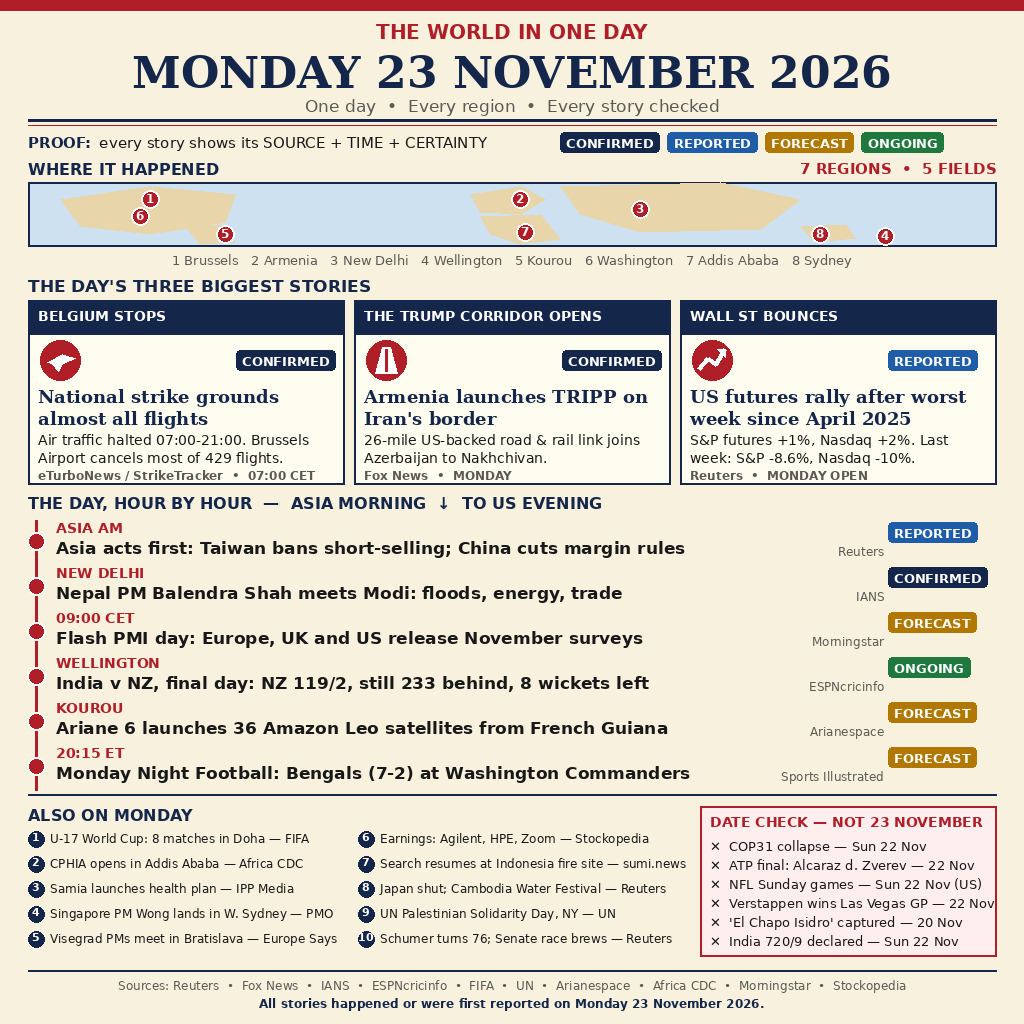
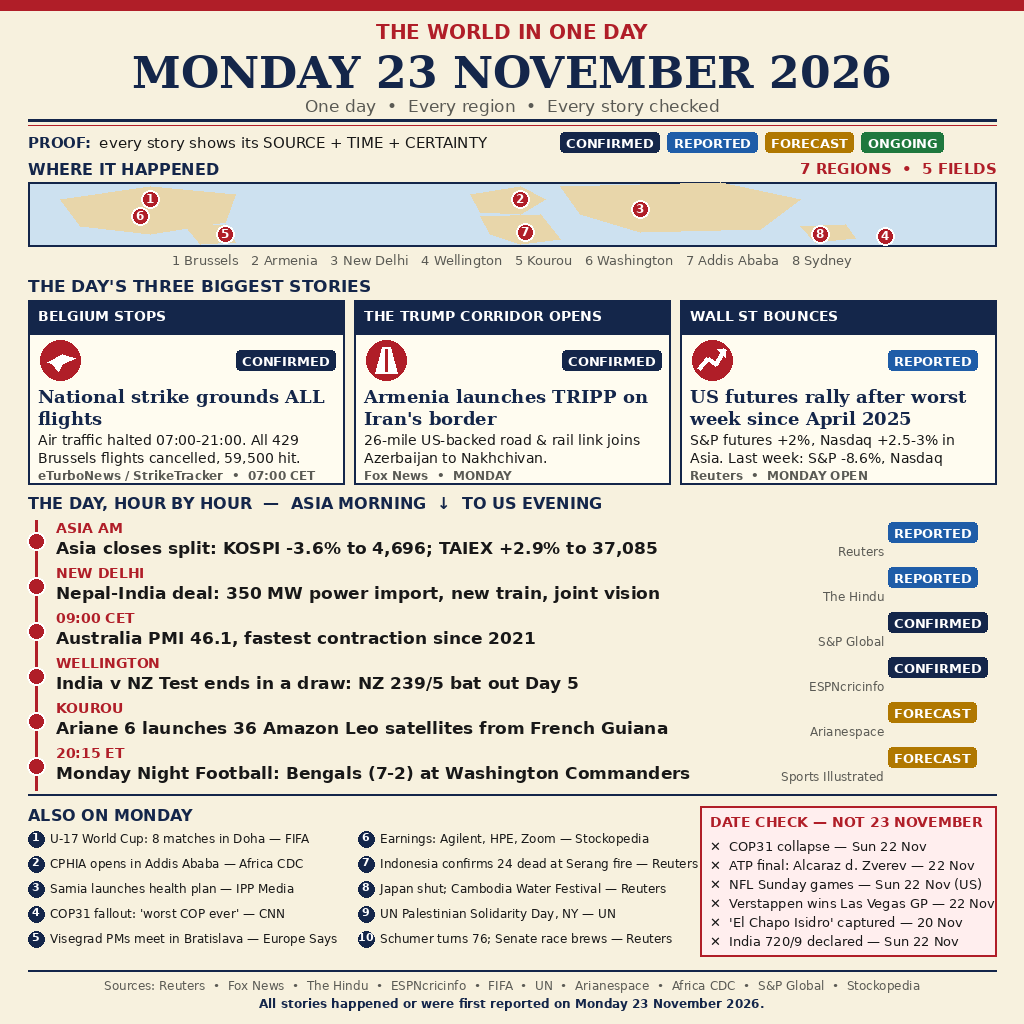
Refresh: round-2 results (Belgium all flights cancelled, IND-NZ draw, Asia closes, Australia PMI 46.1, Nepal-India deal, Serang 24 dead, COP31 reactions)

diff --git a/draw_entry.py b/draw_entry.py
@@ -3,7 +3,7 @@
 Own drawing code (PIL). 1024x1024 newspaper front page: timeline of Monday
 23 November 2026, Asia morning -> US evening, with a PROOF column
 (source + time + certainty tag) on every story. All stories from the
-verified round-1 story list only; trap-list items appear ONLY in the
+verified round-1 + round-2 story lists only; trap-list items appear ONLY in the
 DATE CHECK box as explicitly NOT 23 November.
 """
 from PIL import Image, ImageDraw, ImageFont
@@ -106,8 +106,8 @@ d.text((W // 2, 252), "1 Brussels   2 Armenia   3 New Delhi   4 Wellington   5 K
 d.text((M, 276), "THE DAY'S THREE BIGGEST STORIES", font=F(SANS_B, 17), fill=NAVY)
 heroes = [
     dict(x=M, icon="plane", kick="BELGIUM STOPS",
-         head="National strike grounds almost all flights",
-         body="Air traffic halted 07:00-21:00. Brussels Airport cancels most of 429 flights.",
+         head="National strike grounds ALL flights",
+         body="Air traffic halted 07:00-21:00. All 429 Brussels flights cancelled, 59,500 hit.",
          src="eTurboNews / StrikeTracker", time="07:00 CET", tag="CONFIRMED"),
     dict(x=M + 326, icon="road", kick="THE TRUMP CORRIDOR OPENS",
          head="Armenia launches TRIPP on Iran's border",
@@ -115,7 +115,7 @@ heroes = [
          src="Fox News", time="MONDAY", tag="CONFIRMED"),
     dict(x=M + 652, icon="chart", kick="WALL ST BOUNCES",
          head="US futures rally after worst week since April 2025",
-         body="S&P futures +1%, Nasdaq +2%. Last week: S&P -8.6%, Nasdaq -10%.",
+         body="S&P futures +2%, Nasdaq +2.5-3% in Asia. Last week: S&P -8.6%, Nasdaq -10%.",
          src="Reuters", time="MONDAY OPEN", tag="REPORTED"),
 ]
 for h in heroes:
@@ -158,14 +158,14 @@ d.text((M, 494), "THE DAY, HOUR BY HOUR  —  ASIA MORNING  ↓  TO US EVENING",
        font=F(SANS_B, 16), fill=NAVY)
 d.line([M + 8, 520, M + 8, 790], fill=RED, width=3)
 rows = [
-    ("ASIA AM", "Asia acts first: Taiwan bans short-selling; China cuts margin rules",
+    ("ASIA AM", "Asia closes split: KOSPI -3.6% to 4,696; TAIEX +2.9% to 37,085",
      "Reuters", "REPORTED"),
-    ("NEW DELHI", "Nepal PM Balendra Shah meets Modi: floods, energy, trade",
-     "IANS", "CONFIRMED"),
-    ("09:00 CET", "Flash PMI day: Europe, UK and US release November surveys",
-     "Morningstar", "FORECAST"),
-    ("WELLINGTON", "India v NZ, final day: NZ 119/2, still 233 behind, 8 wickets left",
-     "ESPNcricinfo", "ONGOING"),
+    ("NEW DELHI", "Nepal-India deal: 350 MW power import, new train, joint vision",
+     "The Hindu", "REPORTED"),
+    ("09:00 CET", "Australia PMI 46.1, fastest contraction since 2021",
+     "S&P Global", "CONFIRMED"),
+    ("WELLINGTON", "India v NZ Test ends in a draw: NZ 239/5 bat out Day 5",
+     "ESPNcricinfo", "CONFIRMED"),
     ("KOUROU", "Ariane 6 launches 36 Amazon Leo satellites from French Guiana",
      "Arianespace", "FORECAST"),
     ("20:15 ET", "Monday Night Football: Bengals (7-2) at Washington Commanders",
@@ -187,10 +187,10 @@ also = [
     "U-17 World Cup: 8 matches in Doha — FIFA",
     "CPHIA opens in Addis Ababa — Africa CDC",
     "Samia launches health plan — IPP Media",
-    "Singapore PM Wong lands in W. Sydney — PMO",
+    "COP31 fallout: 'worst COP ever' — CNN",
     "Visegrad PMs meet in Bratislava — Europe Says",
     "Earnings: Agilent, HPE, Zoom — Stockopedia",
-    "Search resumes at Indonesia fire site — sumi.news",
+    "Indonesia confirms 24 dead at Serang fire — Reuters",
     "Japan shut; Cambodia Water Festival — Reuters",
     "UN Palestinian Solidarity Day, NY — UN",
     "Schumer turns 76; Senate race brews — Reuters",
@@ -223,7 +223,7 @@ for item in not23:
 
 # ---------- footer ----------
 d.line([M, 970, W - M, 970], fill=NAVY, width=2)
-d.text((W // 2, 978), "Sources: Reuters  •  Fox News  •  IANS  •  ESPNcricinfo  •  FIFA  •  UN  •  Arianespace  •  Africa CDC  •  Morningstar  •  Stockopedia",
+d.text((W // 2, 978), "Sources: Reuters  •  Fox News  •  The Hindu  •  ESPNcricinfo  •  FIFA  •  UN  •  Arianespace  •  Africa CDC  •  S&P Global  •  Stockopedia",
        font=F(SANS, 12), fill=GREY, anchor="ma")
 d.text((W // 2, 996), "All stories happened or were first reported on Monday 23 November 2026.",
        font=F(SANS_B, 12), fill=NAVY, anchor="ma")
